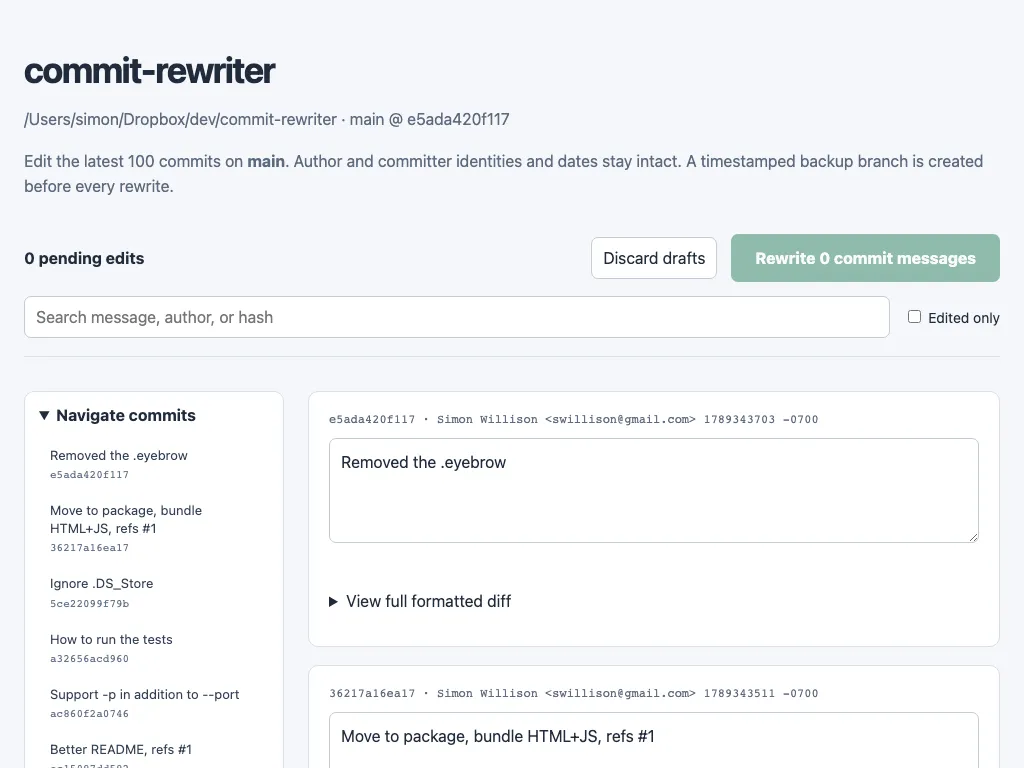
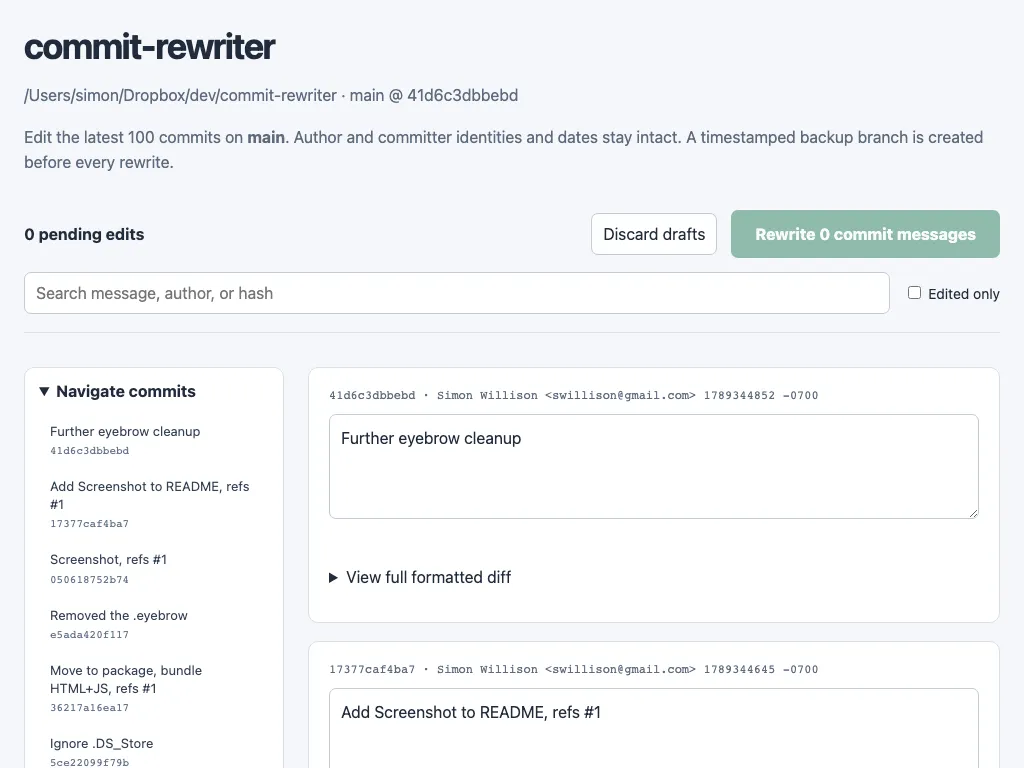
Further eyebrow cleanup

diff --git a/commit_rewriter/index.html b/commit_rewriter/index.html
@@ -20,12 +20,12 @@
       main {
         max-width: 1360px;
         margin: auto;
-        padding: 40px 24px;
+        padding: 24px 24px 40px;
       }
       h1 {
         font-size: 36px;
         letter-spacing: -1.5px;
-        margin: 8px 0;
+        margin: 0 0 8px;
       }
       p {
         color: #5d6a7e;
